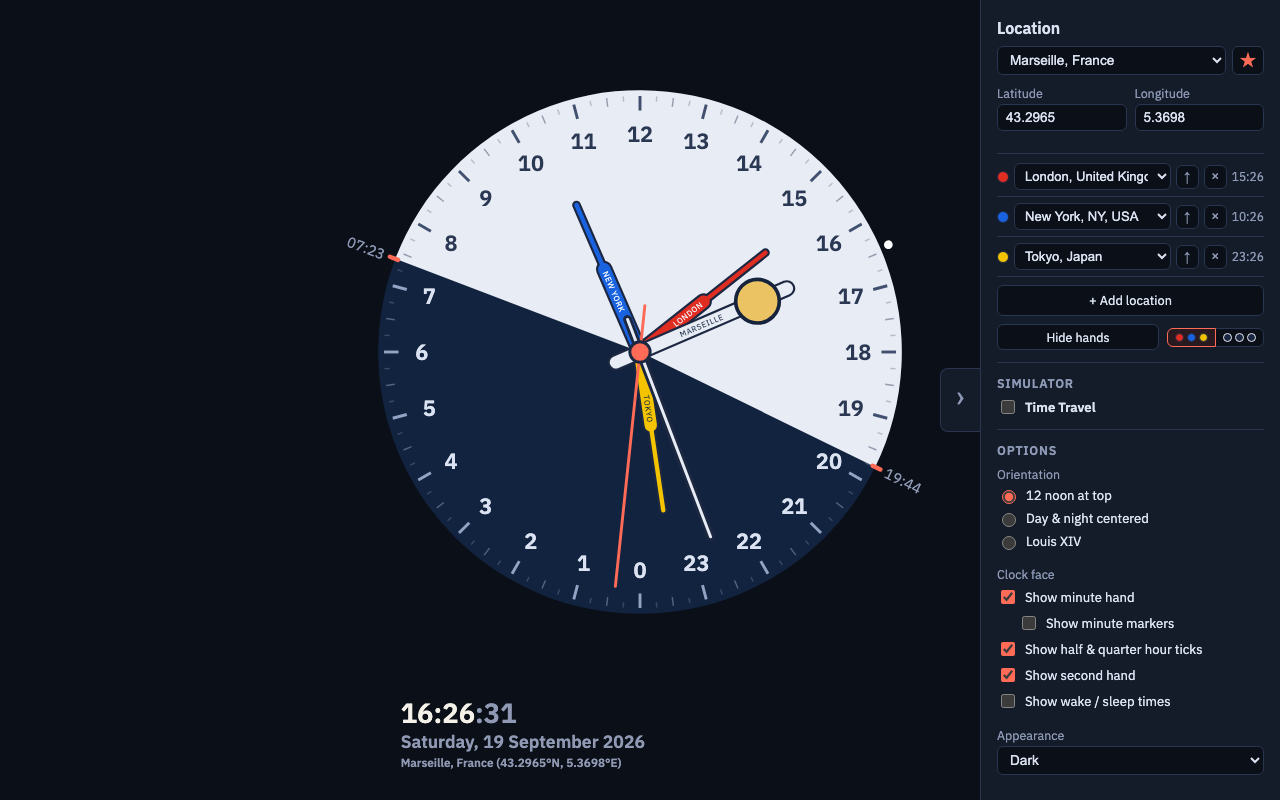
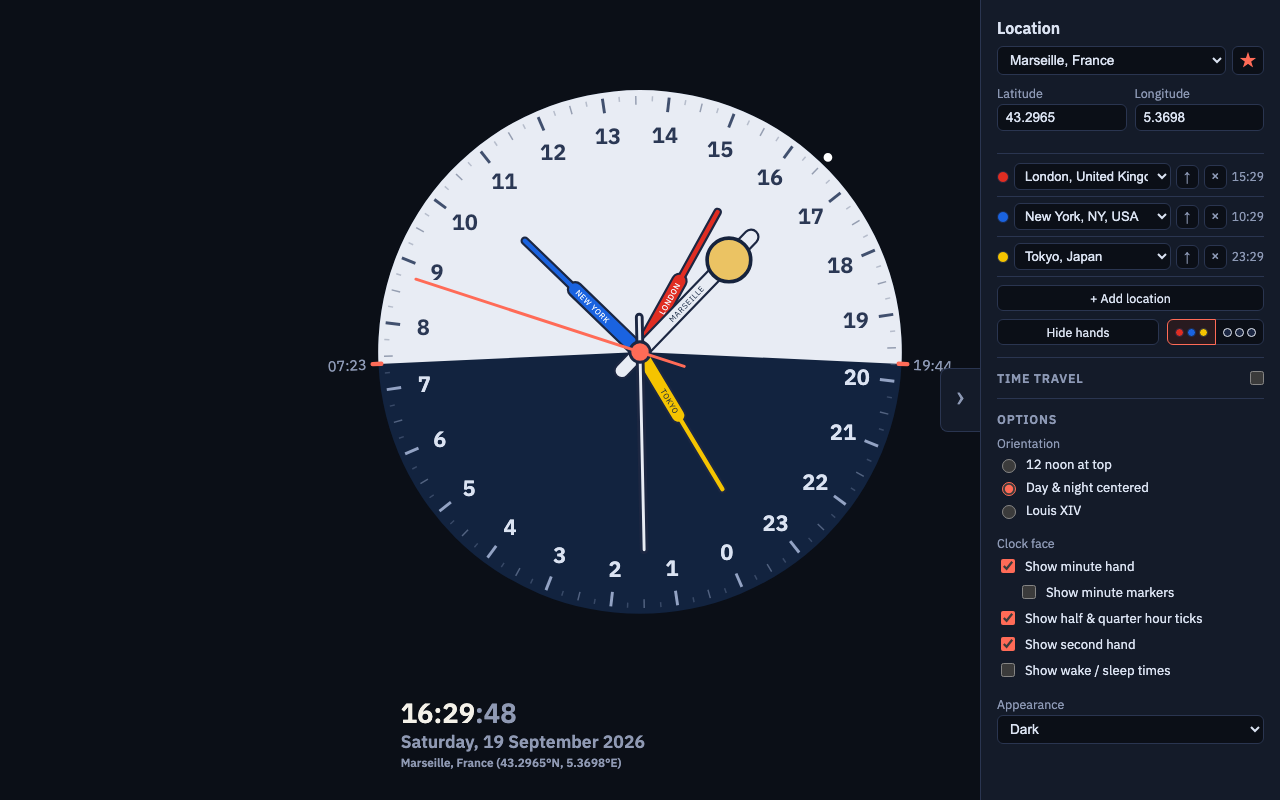
1.7.1 release

diff --git a/store-assets/tools/shoot.js b/store-assets/tools/shoot.js
@@ -3,9 +3,11 @@
 //
 // Each scene in scenes.json is a set of saved settings: the driver seeds them
 // into the page's storage, reloads so the page comes up already in that state,
-// and captures the viewport. The clock is pinned to one instant across every
-// scene, so the five pictures read as five views of the same moment rather
-// than five unrelated times.
+// and captures the viewport. The clock is pinned to the instant at the top of
+// scenes.json, so the five pictures read as views of one afternoon rather than
+// of five unrelated times; a scene can carry an `advance` in seconds to stand a
+// few minutes further on, which is what keeps two shots of the same face from
+// reading as the same picture twice.
 //
 // Started by screenshots.sh, which supplies the server and browser it talks to
 // through PAGE_URL, OUT_DIR, CDP_PORT, VW and VH.
@@ -71,8 +73,19 @@ async function main() {
   await send('Runtime.enable');
   await send('Emulation.setDeviceMetricsOverride',
     { width: VW, height: VH, deviceScaleFactor: 1, mobile: false });
-  await send('Page.addScriptToEvaluateOnNewDocument',
-    { source: freezeTimeScript(FIXED) });
+  // The freeze goes in before every navigation, and a scene that stands further
+  // on replaces it: a script added on new document cannot be edited, only taken
+  // out and put back.
+  let freezeId = null;
+  const freezeAt = async ms => {
+    if (freezeId) {
+      await send('Page.removeScriptToEvaluateOnNewDocument', { identifier: freezeId });
+    }
+    const added = await send('Page.addScriptToEvaluateOnNewDocument',
+      { source: freezeTimeScript(ms) });
+    freezeId = added.identifier;
+  };
+  await freezeAt(FIXED);
 
   const evaluate = async expr => {
     const r = await send('Runtime.evaluate',
@@ -114,12 +127,26 @@ async function main() {
       localStorage.setItem('themeFastPath', ${JSON.stringify(state.theme)});
       true;
     `);
+    await freezeAt(FIXED + (scene.advance || 0) * 1000);
     await navigate(URL);
     // The face waits on the bundled fonts, and the sidebar on storage; both
     // answer within a frame or two of load, but the picture has to be of the
     // settled page rather than of whichever one landed first.
     await evaluate('document.fonts.ready.then(function () { return true; })');
     await sleep(900);
+    // Whether the simulator is running is deliberately not remembered across
+    // restarts — see the Simulator block in the sidebar — so it is the one
+    // setting a scene cannot seed and has to switch on, which it does by the
+    // switch rather than by setting the class the switch sets.
+    if (scene.simulate) {
+      await evaluate(`
+        var box = document.getElementById('sim-active');
+        box.checked = true;
+        box.dispatchEvent(new Event('change'));
+        true;
+      `);
+      await sleep(500);
+    }
     if (scene.sidebarScroll) {
       await evaluate(`document.getElementById('sidebar').scrollTop = ${scene.sidebarScroll}; true;`);
       await sleep(200);
@@ -129,6 +156,7 @@ async function main() {
       theme: document.documentElement.getAttribute('data-theme'),
       collapsed: document.body.classList.contains('sidebar-collapsed'),
       digital: document.getElementById('digital').textContent,
+      simulating: document.body.classList.contains('simulating'),
       date: document.getElementById('date-readout').textContent,
       place: document.getElementById('location-readout').textContent,
       hands: document.getElementById('extra-hands').childElementCount,

diff --git a/store-assets/README.md b/store-assets/README.md
@@ -5,11 +5,11 @@ store asks for. They are captures of the real page, not mock-ups.
 
 | File | Shows |
 | --- | --- |
-| `screenshot-1-clock.png` | The face on its own: 24-hour hour hand, day/night shading, sun on the hand. |
-| `screenshot-2-sidebar.png` | The whole sidebar — location, the places on the dial, the simulator, the options. |
-| `screenshot-3-timezones.png` | Seven places on one dial, each hand in its own colour and named along its length, on the day-and-night-centred face. |
+| `screenshot-1-clock.png` | The face on its own, day and night centred: 24-hour hour hand, day/night shading, sun on the hand. |
+| `screenshot-2-sidebar.png` | The whole sidebar — location, the places on the dial, time travel, the options — beside three places on the centred face. |
+| `screenshot-3-time-travel.png` | Time travel: the clock parked on a winter evening months off, ringed and badged so it cannot be taken for live, with the knobs that got it there. |
 | `screenshot-4-louis-xiv.png` | Louis XIV: the dial turned so the waking hours sit centred, with wake and bedtime drawn on the face. |
-| `screenshot-5-night-moon.png` | Night in Tokyo: the moon on the hour hand at its real phase, the other places in grayscale. |
+| `screenshot-5-night-moon.png` | Night in Sydney: the moon on the hour hand at its real phase, New York's morning in grayscale beside it. |
 
 ## Re-shooting
 
@@ -32,13 +32,22 @@ hand style — which the driver writes into storage before loading the page, so
 what is captured is the page coming up in that state rather than a page poked
 into it afterwards.
 
-Every scene is pinned to the one instant at the top of the file, so the five
-pictures read as five views of the same moment: Marseille's 16:26 is Tokyo's
-23:26. The clock is frozen by standing a fixed `Date` in front of the page's
-own — `clock.js` computes every frame from `now()` and nothing from elapsed
-time, so that is enough to park the face without the simulator's badge landing
-across the picture. The date is chosen for its moon: a gibbous one reads as a
-moon in a way that a nearly-new one does not.
+Every scene is pinned to the instant at the top of the file, so the pictures
+read as views of one afternoon: Marseille's 16:26 is Tokyo's 23:26. A scene may
+carry an `advance` in seconds to stand a few minutes further on, which is what
+keeps two shots of the same face from reading as the same picture twice — and
+what moves a second hand off whatever it happens to be lying along. The clock
+is frozen by standing a fixed `Date` in front of the page's own — `clock.js`
+computes every frame from `now()` and nothing from elapsed time, so that is
+enough to park the face without the simulator's badge landing across the
+picture. The date is chosen for its moon: a gibbous one reads as a moon in a
+way that a nearly-new one does not.
+
+Two things a scene cannot say in storage, and says instead as its own key.
+`simulate` switches the simulator on after the page has come up — whether it is
+running is deliberately not remembered across restarts, so there is nothing to
+seed; the scene sets `simDateTime` for the moment and this throws the switch.
+`sidebarScroll` scrolls the panel to the part of it the picture is about.
 
 The page is served over HTTP rather than loaded as an extension, so the one
 thing it cannot show is "Show the clock in every new tab" — that option hides
